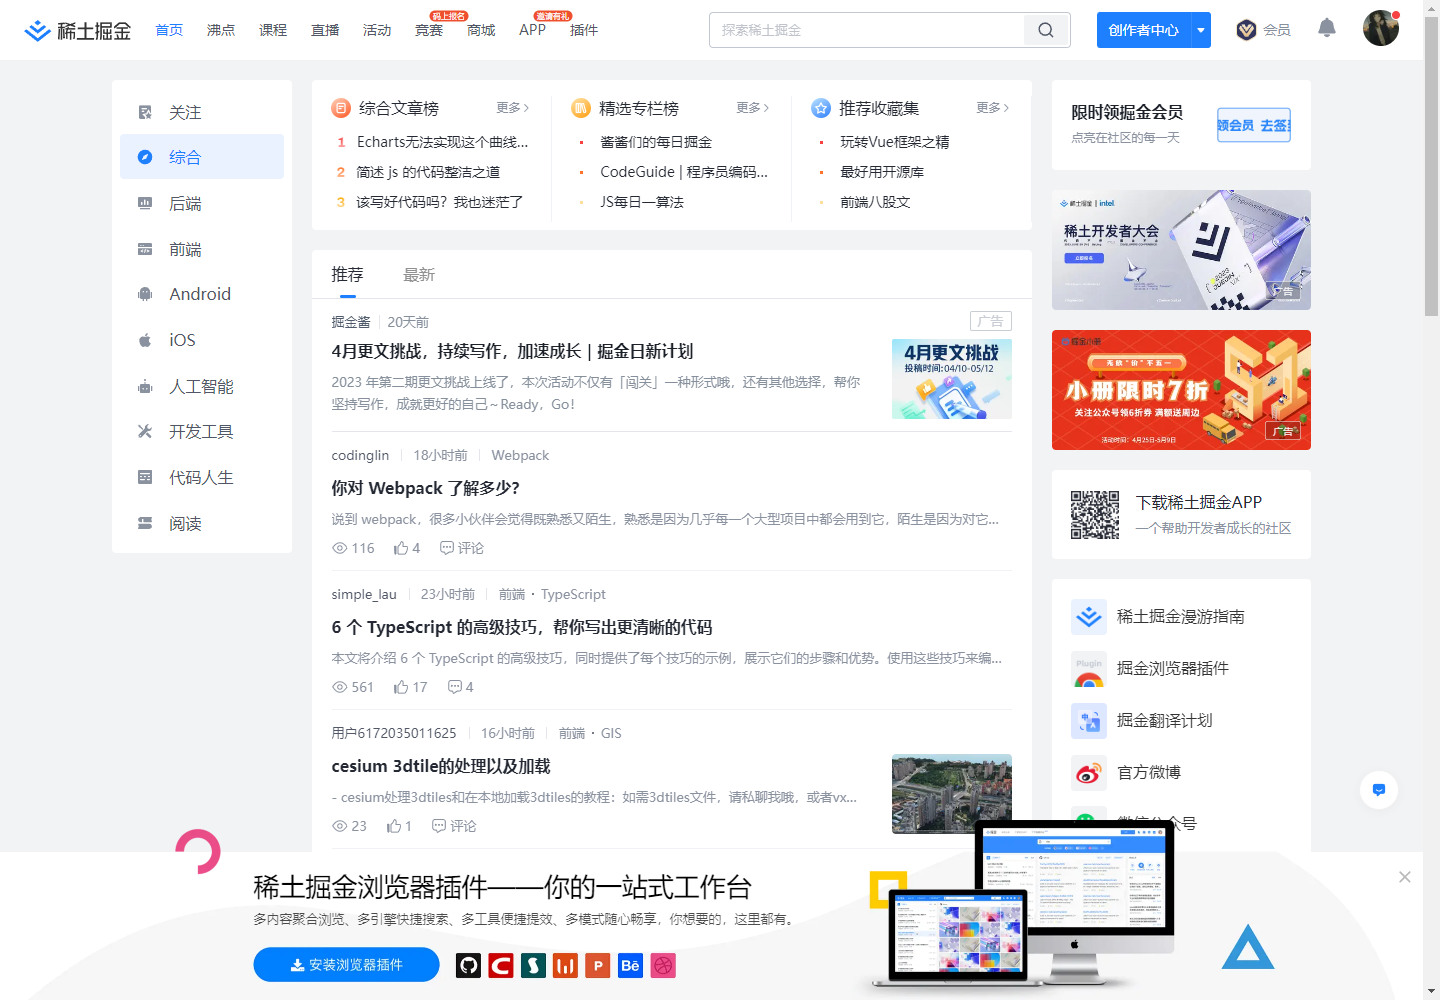
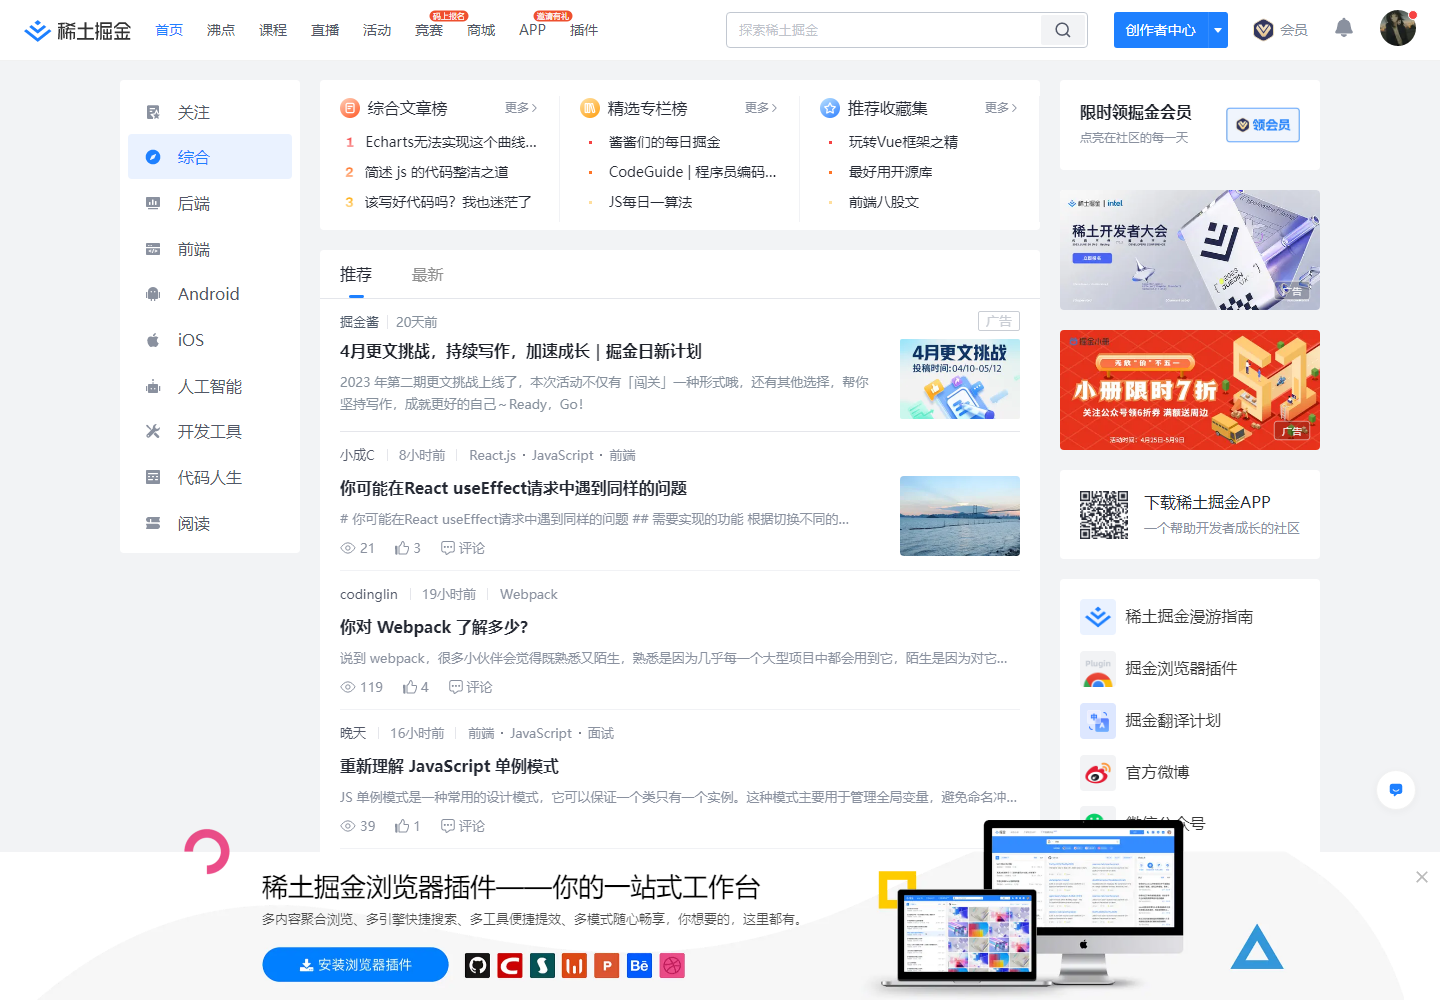
1

diff --git a/puppteer/index.js b/puppteer/index.js
@@ -31,7 +31,7 @@ const {join} = require('path');
 
     await page.goto('https://juejin.cn/');       // 打开页面
 
-    await page.waitForTimeout(500);
+    await page.waitForTimeout(1000);
 
     await page.screenshot({path: join(__dirname, "example.png")});
 
